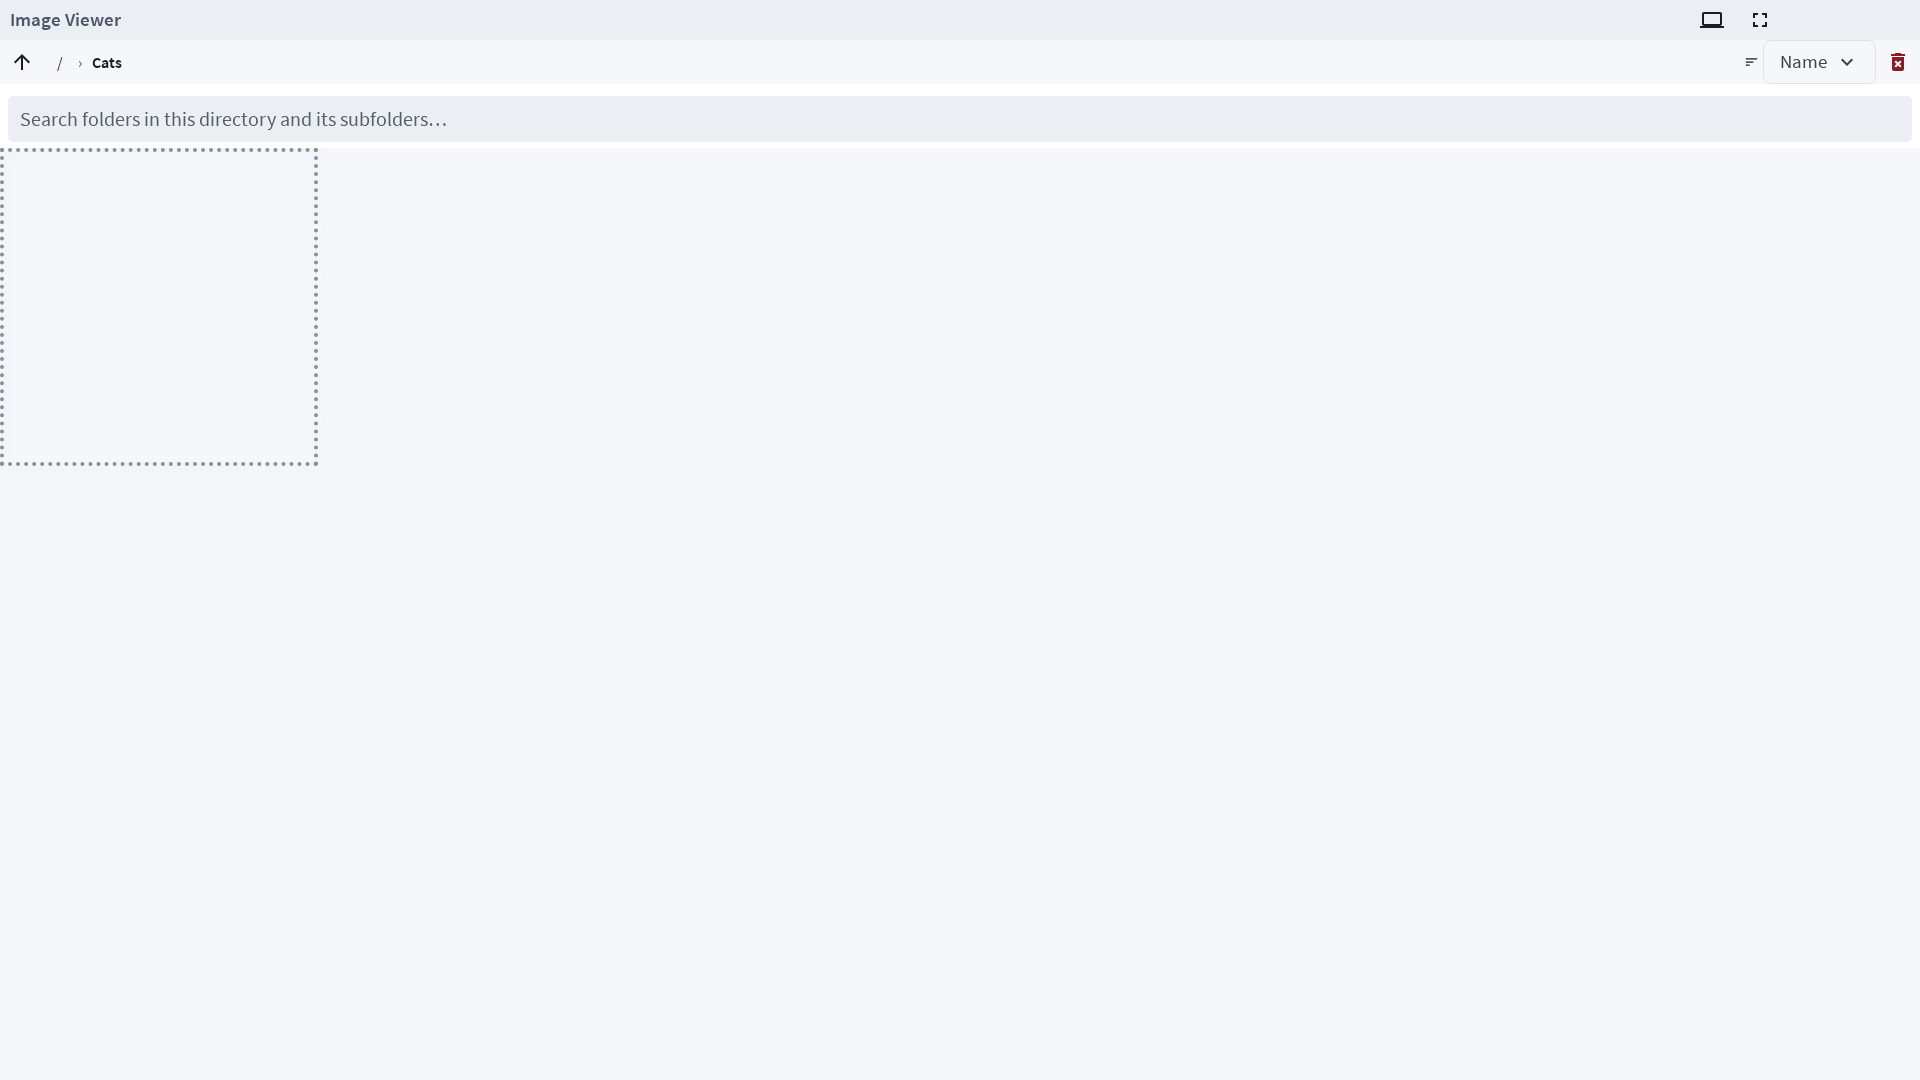
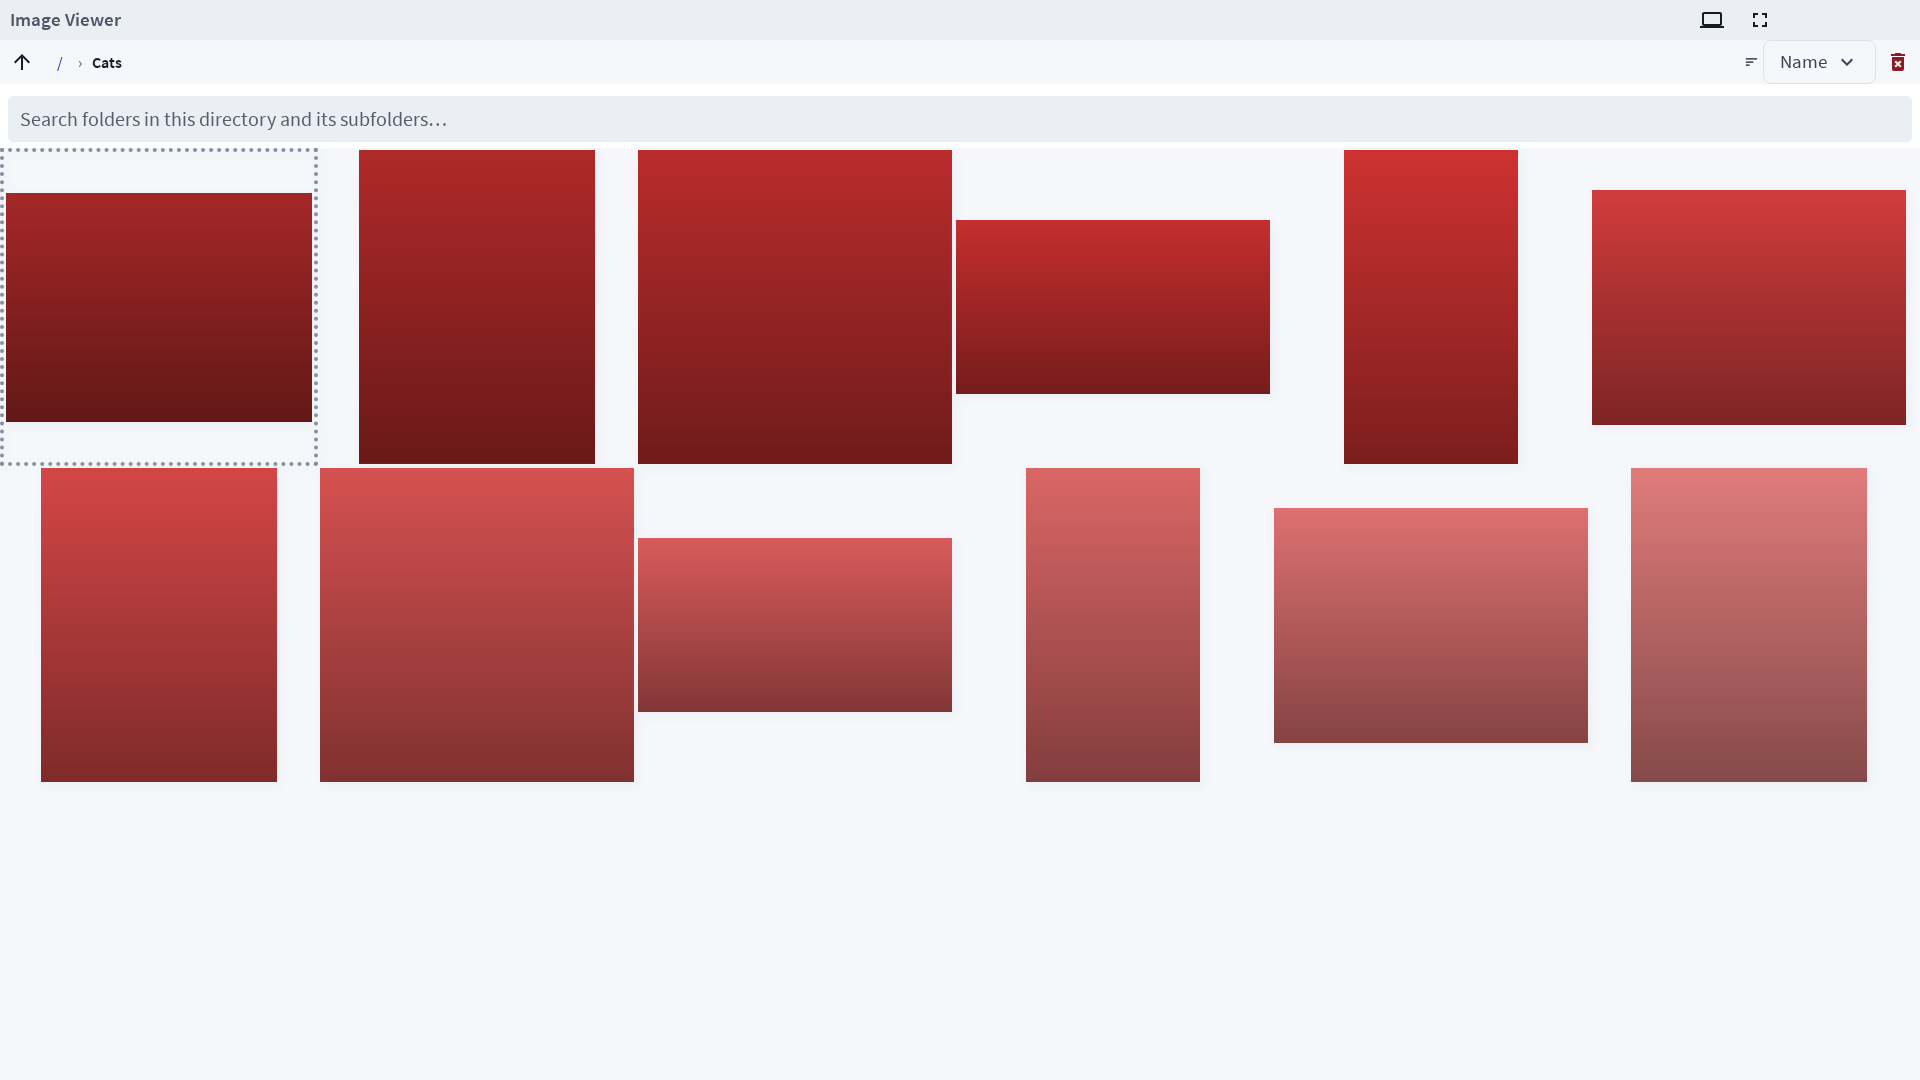
fix: preserve requested pane position while switching folders

diff --git a/src/components/imageViewer/useLiveImageIndex.test.ts b/src/components/imageViewer/useLiveImageIndex.test.ts
@@ -1,5 +1,12 @@
-import { renderHook } from "@testing-library/react"
+import {
+  act,
+  renderHook,
+  waitFor,
+} from "@testing-library/react"
 import { expect, test, vi } from "vitest"
+
+import type { DirectoryEntry } from "../../types"
+import useFolderListing from "../fileBrowser/useFolderListing"
 
 import useLiveImageIndex from "./useLiveImageIndex"
 
@@ -35,4 +42,69 @@ test("retains a saved index until the initial listing arrives and honors navigat
   expect(result.current).toBe(0)
   rerender({ files: images("a", "b"), index: 0 })
   expect(result.current).toBe(0)
+})
+
+test("switching folders does not clamp a saved index against the previous folder", async () => {
+  const originalRead = window.api.readDirectory
+  const setIndex = vi.fn()
+  let resolveNext:
+    | ((entries: DirectoryEntry[]) => void)
+    | undefined
+  const entries = (
+    folder: string,
+    count: number,
+  ): DirectoryEntry[] =>
+    Array.from({ length: count }, (_, index) => ({
+      fileName: `${index}.png`,
+      filePath: `${folder}/${index}.png`,
+      modifiedTime: 0,
+      isDirectory: false,
+      isFile: true,
+    }))
+  window.api.readDirectory = vi
+    .fn<Window["api"]["readDirectory"]>()
+    .mockResolvedValueOnce(entries("/first", 2))
+    .mockImplementationOnce(
+      () =>
+        new Promise((resolve) => {
+          resolveNext = resolve
+        }),
+    )
+  try {
+    const { result, rerender, unmount } = renderHook(
+      ({ folder, index }) => {
+        const { imageFiles } = useFolderListing(folder, {
+          isWatchingForChanges: true,
+        })
+        return {
+          imageFiles,
+          index: useLiveImageIndex(
+            folder,
+            imageFiles,
+            index,
+            setIndex,
+          ),
+        }
+      },
+      { initialProps: { folder: "/first", index: 0 } },
+    )
+    await waitFor(() =>
+      expect(result.current.imageFiles).toHaveLength(2),
+    )
+    rerender({ folder: "/second", index: 5 })
+    expect(result.current.imageFiles).toHaveLength(0)
+    expect(result.current.index).toBe(5)
+    expect(setIndex).not.toHaveBeenCalled()
+    await act(async () => {
+      resolveNext?.(entries("/second", 10))
+    })
+    expect(result.current.imageFiles).toHaveLength(10)
+    expect(
+      result.current.imageFiles[result.current.index]?.path,
+    ).toBe("/second/5.png")
+    expect(setIndex).not.toHaveBeenCalled()
+    unmount()
+  } finally {
+    window.api.readDirectory = originalRead
+  }
 })

diff --git a/src/components/fileBrowser/useImageFiles.ts b/src/components/fileBrowser/useImageFiles.ts
@@ -1,6 +1,4 @@
-import { useContext, useEffect, useState } from "react"
-import { from } from "rxjs"
-import { filter, map, toArray } from "rxjs/operators"
+import { useContext, useMemo } from "react"
 
 import type { DirectoryEntry, ImageFile } from "../../types"
 import SettingsContext from "../settings/SettingsContext"
@@ -28,8 +26,6 @@ const validImageExtensions = [
   ".webp",
 ]
 
-const initialImageFiles: ImageFile[] = []
-
 const useImageFiles = (
   directoryContents: readonly DirectoryEntry[],
   folderPath = "",
@@ -41,40 +37,29 @@ const useImageFiles = (
     folderPath,
   )
 
-  const [imageFiles, setImageFiles] = useState<ImageFile[]>(
-    initialImageFiles,
+  // Derive synchronously so a folder change never exposes the previous
+  // folder's files for one render (which could overwrite a saved pane index).
+  return useMemo(
+    () =>
+      sortDirectoryEntries(
+        directoryContents
+          .filter((entry) => entry.isFile)
+          .filter((entry) =>
+            validImageExtensions.includes(
+              window.api.path
+                .extname(entry.fileName)
+                .toLowerCase(),
+            ),
+          )
+          .map(({ fileName, filePath, modifiedTime }) => ({
+            modifiedTime,
+            name: fileName,
+            path: filePath,
+          })),
+        sortOrder,
+      ),
+    [directoryContents, sortOrder],
   )
-
-  useEffect(() => {
-    const subscription = from(directoryContents)
-      .pipe(
-        filter(({ isFile }) => isFile),
-        filter(({ fileName }) =>
-          validImageExtensions.includes(
-            window.api.path.extname(fileName).toLowerCase(),
-          ),
-        ),
-        map(({ fileName, filePath, modifiedTime }) => ({
-          modifiedTime,
-          name: fileName,
-          path: filePath,
-        })),
-        toArray(),
-        map((unsortedImageFiles) =>
-          sortDirectoryEntries(
-            unsortedImageFiles,
-            sortOrder,
-          ),
-        ),
-      )
-      .subscribe(setImageFiles)
-
-    return () => {
-      subscription.unsubscribe()
-    }
-  }, [directoryContents, sortOrder])
-
-  return imageFiles
 }
 
 export default useImageFiles

diff --git a/src/components/fileBrowser/useDirectories.ts b/src/components/fileBrowser/useDirectories.ts
@@ -1,6 +1,4 @@
-import { useContext, useEffect, useState } from "react"
-import { from } from "rxjs"
-import { filter, map, toArray } from "rxjs/operators"
+import { useContext, useMemo } from "react"
 
 import type { DirectoryEntry, ImageFile } from "../../types"
 import SettingsContext from "../settings/SettingsContext"
@@ -17,8 +15,6 @@ const systemDirectories = [
   "windows",
 ]
 
-const initialDirectories: ImageFile[] = []
-
 const useDirectories = (
   directoryContents: readonly DirectoryEntry[],
   folderPath = "",
@@ -30,41 +26,28 @@ const useDirectories = (
     folderPath,
   )
 
-  const [directories, setDirectories] = useState<
-    ImageFile[]
-  >(initialDirectories)
-
-  useEffect(() => {
-    const subscriber = from(directoryContents)
-      .pipe(
-        filter(({ isDirectory }) => isDirectory),
-        filter(
-          ({ fileName }) =>
-            !systemDirectories.includes(
-              fileName.toLowerCase(),
-            ),
-        ),
-        map(({ fileName, filePath, modifiedTime }) => ({
-          modifiedTime,
-          name: fileName,
-          path: filePath,
-        })),
-        toArray(),
-        map((unsortedDirectories) =>
-          sortDirectoryEntries(
-            unsortedDirectories,
-            sortOrder,
-          ),
-        ),
-      )
-      .subscribe(setDirectories)
-
-    return () => {
-      subscriber.unsubscribe()
-    }
-  }, [directoryContents, sortOrder])
-
-  return directories
+  // Derive synchronously so a folder change never exposes the previous
+  // folder's files for one render (which could overwrite a saved pane index).
+  return useMemo(
+    () =>
+      sortDirectoryEntries(
+        directoryContents
+          .filter((entry) => entry.isDirectory)
+          .filter(
+            (entry) =>
+              !systemDirectories.includes(
+                entry.fileName.toLowerCase(),
+              ),
+          )
+          .map(({ fileName, filePath, modifiedTime }) => ({
+            modifiedTime,
+            name: fileName,
+            path: filePath,
+          })),
+        sortOrder,
+      ),
+    [directoryContents, sortOrder],
+  )
 }
 
 export default useDirectories

diff --git a/e2e/live-folders.spec.ts b/e2e/live-folders.spec.ts
@@ -12,6 +12,19 @@ test("an open gallery reconciles new images in sorted position with a New marker
       exact: true,
     }),
   ).toBeVisible()
+  await expect
+    .poll(() =>
+      page
+        .locator("img")
+        .first()
+        .evaluate(
+          (image) =>
+            image instanceof HTMLImageElement &&
+            image.complete &&
+            image.naturalWidth > 0,
+        ),
+    )
+    .toBe(true)
   await page.screenshot({
     path: `__screenshots__/live-before-${testInfo.project.name}.png`,
   })

diff --git a/docs/decisions/2026-11-14-open-folders-update-in-place.md b/docs/decisions/2026-11-14-open-folders-update-in-place.md
@@ -24,6 +24,10 @@ navigation, and preserve the last successful listing through temporary read erro
 
 ## Context
 
+Folders can receive new files while a gallery or image pane remains open.
+
+## Why
+
 New files should appear without refreshing the app or leaving and reopening the
 folder. An insertion must not change the image being read.
 
